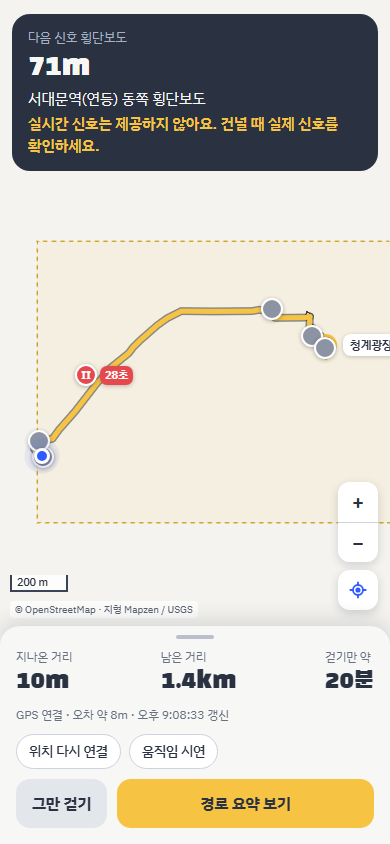
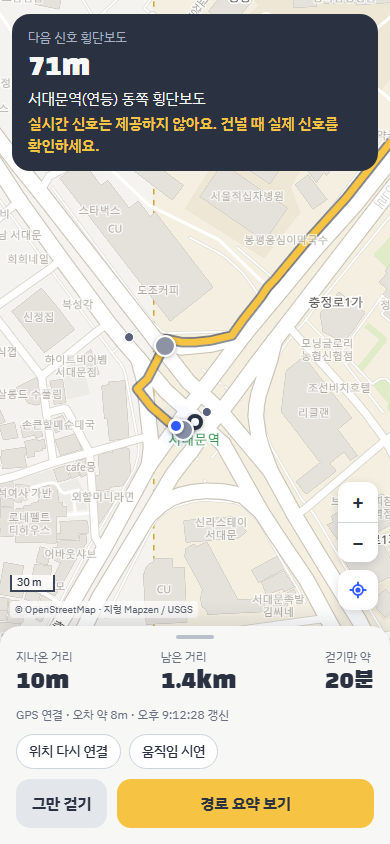
Verify public deployment and keep walking signal markers neutral

diff --git a/docs/prototype/index.html b/docs/prototype/index.html
@@ -901,7 +901,7 @@ function fit(coordsList, extra = {}) {
   const pad = { top: current === "result" ? (phoneH() < 700 ? 80 : 120) : 90, bottom: sheetH() + 30, left: 34, right: 64, ...extra };
   ready(() => map.fitBounds(b, { padding: pad, duration: 0, maxZoom: 17 }));
 }
-function markTrip(sims, focus) {
+function markTrip(sims, focus, forecasts = true) {
   clearDyn();
   addDyn(el(state.from.me ? "m-me" : "m-start", state.from.me ? "<i></i>" : ""), state.from.ll);
   addDyn(el("m-dest", `<i></i><span>${esc(state.to.name)}</span>`), state.to.ll, { anchor: "left", offset: [-11, 0] });
@@ -911,8 +911,8 @@ function markTrip(sims, focus) {
     if (!sims[k]) continue;
     for (const x of sims[k].xings) {
       if (seen.has(x.id)) continue; seen.add(x.id);
-      const cls = !x.known ? "unk" : x.wait > 2 ? "stop" : "go", label = x.known && x.wait > 2 && k === focus ? `<b>${x.wait}초</b>` : "";
-      const m = el(`m-sig ${cls}${k === focus ? "" : " dim"}`, `<span>${!x.known ? "" : x.wait > 2 ? "Ⅱ" : "✓"}</span>${label}`);
+      const cls = !forecasts || !x.known ? "unk" : x.wait > 2 ? "stop" : "go", label = forecasts && x.known && x.wait > 2 && k === focus ? `<b>${x.wait}초</b>` : "";
+      const m = el(`m-sig ${cls}${k === focus ? "" : " dim"}`, `<span>${!forecasts || !x.known ? "" : x.wait > 2 ? "Ⅱ" : "✓"}</span>${label}`);
       m.dataset.sig = x.id; m.title = x.name;
       addDyn(m, x.at);
     }
@@ -923,7 +923,12 @@ document.addEventListener("click", e => {
   if (e.target.closest("#ctl-in")) map.zoomIn();
   if (e.target.closest("#ctl-out")) map.zoomOut();
   if (e.target.closest("#ctl-north")) map.resetNorth();
-  if (e.target.closest("#ctl-loc")) locate(false);
+  if (e.target.closest("#ctl-loc")) {
+    if (current === "walk") {
+      if (walker && gpsFix && Date.now() - gpsFix.timestamp < 30000) map.easeTo({ center: walker.getLngLat(), zoom: 16.5 });
+      else renderWalk();
+    } else locate(false);
+  }
 });
 
 // 지도 누르기: 홈에서는 그 위치를 도착지 후보로, 신호 점을 누르면 신호 상세로
@@ -1297,7 +1302,7 @@ function renderWalk(demo = false) {
   stopGPS(); cancelAnimationFrame(walkTimer);
   const session = ++gpsRequest;
   const k = state.same ? "jjuk" : state.focus, sim = state.sims[k], route = state.routes[k];
-  mountMap("map-walk"); setRoutes(route, null); markTrip({ [k]: sim }, k);
+  mountMap("map-walk"); setRoutes(route, null); markTrip({ [k]: sim }, k, false);
   setSheet("walk", "mid"); fit([route.coords], { top: 170 });
   let markerAdded = false;
   const update = (dist, ll) => {

diff --git a/docs/prototype/src/app.js b/docs/prototype/src/app.js
@@ -374,7 +374,7 @@ function fit(coordsList, extra = {}) {
   const pad = { top: current === "result" ? (phoneH() < 700 ? 80 : 120) : 90, bottom: sheetH() + 30, left: 34, right: 64, ...extra };
   ready(() => map.fitBounds(b, { padding: pad, duration: 0, maxZoom: 17 }));
 }
-function markTrip(sims, focus) {
+function markTrip(sims, focus, forecasts = true) {
   clearDyn();
   addDyn(el(state.from.me ? "m-me" : "m-start", state.from.me ? "<i></i>" : ""), state.from.ll);
   addDyn(el("m-dest", `<i></i><span>${esc(state.to.name)}</span>`), state.to.ll, { anchor: "left", offset: [-11, 0] });
@@ -384,8 +384,8 @@ function markTrip(sims, focus) {
     if (!sims[k]) continue;
     for (const x of sims[k].xings) {
       if (seen.has(x.id)) continue; seen.add(x.id);
-      const cls = !x.known ? "unk" : x.wait > 2 ? "stop" : "go", label = x.known && x.wait > 2 && k === focus ? `<b>${x.wait}초</b>` : "";
-      const m = el(`m-sig ${cls}${k === focus ? "" : " dim"}`, `<span>${!x.known ? "" : x.wait > 2 ? "Ⅱ" : "✓"}</span>${label}`);
+      const cls = !forecasts || !x.known ? "unk" : x.wait > 2 ? "stop" : "go", label = forecasts && x.known && x.wait > 2 && k === focus ? `<b>${x.wait}초</b>` : "";
+      const m = el(`m-sig ${cls}${k === focus ? "" : " dim"}`, `<span>${!forecasts || !x.known ? "" : x.wait > 2 ? "Ⅱ" : "✓"}</span>${label}`);
       m.dataset.sig = x.id; m.title = x.name;
       addDyn(m, x.at);
     }
@@ -396,7 +396,12 @@ document.addEventListener("click", e => {
   if (e.target.closest("#ctl-in")) map.zoomIn();
   if (e.target.closest("#ctl-out")) map.zoomOut();
   if (e.target.closest("#ctl-north")) map.resetNorth();
-  if (e.target.closest("#ctl-loc")) locate(false);
+  if (e.target.closest("#ctl-loc")) {
+    if (current === "walk") {
+      if (walker && gpsFix && Date.now() - gpsFix.timestamp < 30000) map.easeTo({ center: walker.getLngLat(), zoom: 16.5 });
+      else renderWalk();
+    } else locate(false);
+  }
 });
 
 // 지도 누르기: 홈에서는 그 위치를 도착지 후보로, 신호 점을 누르면 신호 상세로
@@ -770,7 +775,7 @@ function renderWalk(demo = false) {
   stopGPS(); cancelAnimationFrame(walkTimer);
   const session = ++gpsRequest;
   const k = state.same ? "jjuk" : state.focus, sim = state.sims[k], route = state.routes[k];
-  mountMap("map-walk"); setRoutes(route, null); markTrip({ [k]: sim }, k);
+  mountMap("map-walk"); setRoutes(route, null); markTrip({ [k]: sim }, k, false);
   setSheet("walk", "mid"); fit([route.coords], { top: 170 });
   let markerAdded = false;
   const update = (dist, ll) => {

diff --git a/docs/HANDOFF.md b/docs/HANDOFF.md
@@ -4,9 +4,9 @@
 
 ## 다음 작업자가 먼저 알아야 할 사항
 
-- **기존 디자인을 유지한 Walking 코드 확장:** 사용자 “쭉고 프로토타입에 수정해서 만들어. 디자인 방식 그대로 따라가고.”에 따라 기존 소스에 GPS 연결·위치 갱신·이탈/권한/오차 안내·시연 분리, 검출 계단과 공개 지형 상승량, +1/+2/+3분 예산별 후보 비교를 구현했다. `WALKING_DEMO.md`가 상세 인수인계다. 아래의 ‘GPS 미구현’은 이전 상태이며 현재 코드 상태로 읽지 않는다. 모바일 현장 검증과 HTTPS 배포는 아직 미완료.
+- **기존 디자인을 유지한 Walking 코드 확장:** 사용자 “쭉고 프로토타입에 수정해서 만들어. 디자인 방식 그대로 따라가고.”에 따라 기존 소스에 GPS 연결·위치 갱신·이탈/권한/오차 안내·시연 분리, 검출 계단과 공개 지형 상승량, +1/+2/+3분 예산별 후보 비교를 구현했다. `WALKING_DEMO.md`가 상세 인수인계다. 아래의 ‘GPS 미구현’은 이전 상태이며 현재 코드 상태로 읽지 않는다. HTTPS 배포는 완료, 모바일 현장 검증은 미완료.
 - **지형 취득:** Mapzen/AWS 타일33장으로 약120m 파생망703,645바이트 추가. 국토지리정보원 DEM 또는 서울시 계단 파일 통합은 아니다. 계단0은 검출0, 입체구간 미확인. 시간예산에는 미확인 신호45초 가정을 포함하지만 화면 도착시각에는 미확인 대기가 제외되어 각주를 유지한다.
-- **Vercel:** 연결 확인 및 목록 조회 성공. 신규 프로젝트 생성이 팀 쓰기권한403으로 실패하여 승인 링크 발급. 사용자에게 첫 링크 만료 보고를 받고 새 링크 발급. 공개 배포 완료로 기록하지 않는다. 권한 승인 후 `jjukgo` 프로젝트를 정적 `docs/prototype` 출력으로 생성하고 현재 작업 브랜치를 배포한다. 기존 다른 프로젝트를 덮어쓰지 않는다.
+- **Vercel 배포 완료:** https://jjukgo.vercel.app/#home . 신규 `jjukgo` 프로젝트, 기존 `docs/prototype` 정적 출력, 첫 코드3a7eeb2의 READY 확인. 앱/지도/지형은 로그인 없는 HTTP200 확인. 팀 승인 반영 후 성공했다. 전체 SSO 보호 해제 요청은 자동 검토에서 거절되어 미적용이나 대표 도메인은 기본 설정으로 이미 공개 접근 가능했다. 사용자는 이후 '링크로 누구나 사용하도록 공개'를 명시적으로 선택. 추가 보안설정 변경 없이 대표주소 사용. 자세한 검증은 `WALKING_DEMO.md`.
 
 - **Walking 1차 데모 목표:** 사용자는 먼저 써볼 수 있는 1차 데모를 내고 신호+계단+경사 걷기 버전까지 구현하는 것을 목표로 밝혔다. 구현 순서·완료 기준·웹 GPS 조건은 `FIRST_DEMO_PLAN.md` 참고. GPS는 모바일 웹에서 가능하나 HTTPS/권한 필요, 화면 잠금·백그라운드 지속 추적은 별도 범위다. 현재 GPS 구현·실기기 검증은 아직 안 됐다.
 - **수집기 첫 수정:** 네트워크 재시도도305초 간격 준수, 메모리 내 마지막 호출시각 유지, JSON파싱 후 성공로그, 실패 교차로 다음순서 진행을 구현. 회귀테스트3개 포함 전체59개 통과(3.36초). 작업브랜치만 변경해 기본브랜치 Actions에는 미적용. 대상10곳+탐색 비중은 미변경.

diff --git a/docs/WALKING_DEMO.md b/docs/WALKING_DEMO.md
@@ -40,6 +40,14 @@
 
 Vercel용 `vercel.json`은 기존 정적 폴더를 그대로 배포하도록 지정한다. HTTPS와 `Permissions-Policy: geolocation=(self)`를 사용한다. 위치를 앱 시작 때 자동 요청하지 않는다. 모바일 공유에는 배포된 HTTPS 직접 링크가 필요하고, PC의 localhost는 휴대전화 공유 링크가 아니다.
 
-Vercel 연결의 프로젝트 목록 조회는 성공했으나 프로젝트 생성은 팀 쓰기 권한403을 반환했다. Vercel의 팀 승인 링크를 사용자에게 발급했다. 현재 공개 배포 완료로 간주하지 않는다. 첫 링크 만료 후 사용자 요청으로 새 링크를 발급했다. 링크 자체는 일회성 인증 자료이므로 저장소에 기록하지 않는다.
+## 배포 결과
 
-남은 작업: Vercel 권한 승인 후 배포·HTTPS 검증, 휴대전화 현장 점검, 실제 계단·지형 교차 검증, 간단한 사용 피드백. 따라서 제품 계획의 **Walking 1차 데모 최종 완료**로 기록하지 않는다.
+Vercel 팀 승인 반영 후 `jjukgo` 프로젝트 생성과 배포가 완료됐다. 대표 주소: **https://jjukgo.vercel.app/#home**. 첫 배포 `dpl_3XDNBdT24WddWg3dZXDacedWp74P`, 코드 `3a7eeb2`, 상태 READY 확인. 다른 기존 프로젝트는 수정하지 않았다.
+
+로그인/쿠키 없는 HTTP 요청으로 `/`, `/seoul/graph/index.json`, `/seoul/terrain.json`, `/seoul/tiles/index.json` 모두200과 실제 앱/JSON 본문, `Permissions-Policy: geolocation=(self)`를 확인했다. 브라우저에서도 HTTPS 홈을 열었다.
+
+처음 API 응답에 SSO 보호 설정이 보여 전체 보호 해제를 요청했으나 자동 승인 검토가 명시적 공개 승인 부족을 이유로 거절했다. **그 변경은 적용되지 않았다.** 이후 확인한 대표 도메인은 기본 설정만으로 공개 접근이 가능했다. 사용자도 '링크로 누구나 사용하도록 공개'를 명시적으로 선택했다. 이미 공개인 대표 주소를 위해 추가 보호 설정을 바꾸지 않았다. 별도 미리보기/커밋 주소의 접근 정책까지 같다고 가정하지 않는다.
+
+걷기 화면에서는 과거 패턴의 신호색/대기초 마커를 숨기고 횡단보도 위치만 표시한다. 위치 버튼을 눌러도 진행 중 위치 구독이 끊기지 않는 회귀 검사 추가. 화면 기록은 지도 로드 후 다시 저장했다.
+
+남은 작업: 실제 휴대전화/야외 보행, 계단·지형 교차 검증, 간단한 사용 피드백. 따라서 제품 계획의 **Walking 1차 데모 현장 검증 최종 완료**로 기록하지 않는다.

diff --git a/docs/discussions/2026-10-28.md b/docs/discussions/2026-10-28.md
@@ -108,3 +108,11 @@ codex plugin list --marketplace bmad --json
 - +1/+2/+3분 예산 안에서 세 가중치 후보를 비교한다. 비용계수는 검증된 피로 점수가 아니며 전역 최적·무장애 보장 없음. 모르는 신호 대기는 예산검사에서45초 가정, 화면 시각에서는 제외된다는 한계를 기록한다.
 - Vercel 플러그인 연결 후 프로젝트 목록 조회 성공. 첫 생성 요청은 요청 본문 전달형식을 수정했고, 정정 요청은 팀 쓰기권한403으로 거절됨. 도구 안내대로 팀 승인 링크 발급. 사용자가 ‘expired 됐대 한번만 다시’라고 하여 새 링크를 발급했다. 인증 링크는 저장소에 남기지 않는다. 기존 Vercel 프로젝트는 수정하지 않았다.
 - 검증과 화면 근거, 남은 작업은 `WALKING_DEMO.md`. Vercel 공개 배포 및 실제 휴대전화 야외 보행까지 완료로 쓰지 않는다.
+
+
+## Vercel 배포 성공과 공개 범위 확인
+
+- 새 승인 링크 이후 팀 권한이 반영되어 신규 `jjukgo` 프로젝트를 만들고3a7eeb2를 배포, READY 확인. 대표주소 https://jjukgo.vercel.app/#home . 다른 프로젝트는 수정하지 않았다.
+- 프로젝트 응답의 SSO 설정 때문에 전체 보호 해제를 시도했으나 자동 승인 검토가 ‘명시적 공개범위 승인 부족’을 이유로 거절해 변경은 적용되지 않았다. 사용자가 공개 여부 질문에 **‘링크로 누구나 사용하도록 공개’**를 선택했다.
+- 별도로 로그인 없는 HTTP 요청으로 대표주소의 앱·그래프·지형·지도인덱스 모두200, HTTPS와 위치정책 헤더를 확인했다. 기본 대표도메인이 이미 공개여서 전체 보호 해제 재시도는 하지 않았다. 추가 인증이나 자동검토 우회는 사용하지 않았다.
+- 걷는 중 과거 신호색/대기초 마커를 숨기고 위치 버튼 사용 후에도 구독이 유지되는 검사를 추가. 지도 로드 후 스크린샷 갱신. GPS점프 거절 포함 실제 서울 데이터+가상GPS 브라우저 검사 통과. 실제 야외 보행 정확도는 미검증.
